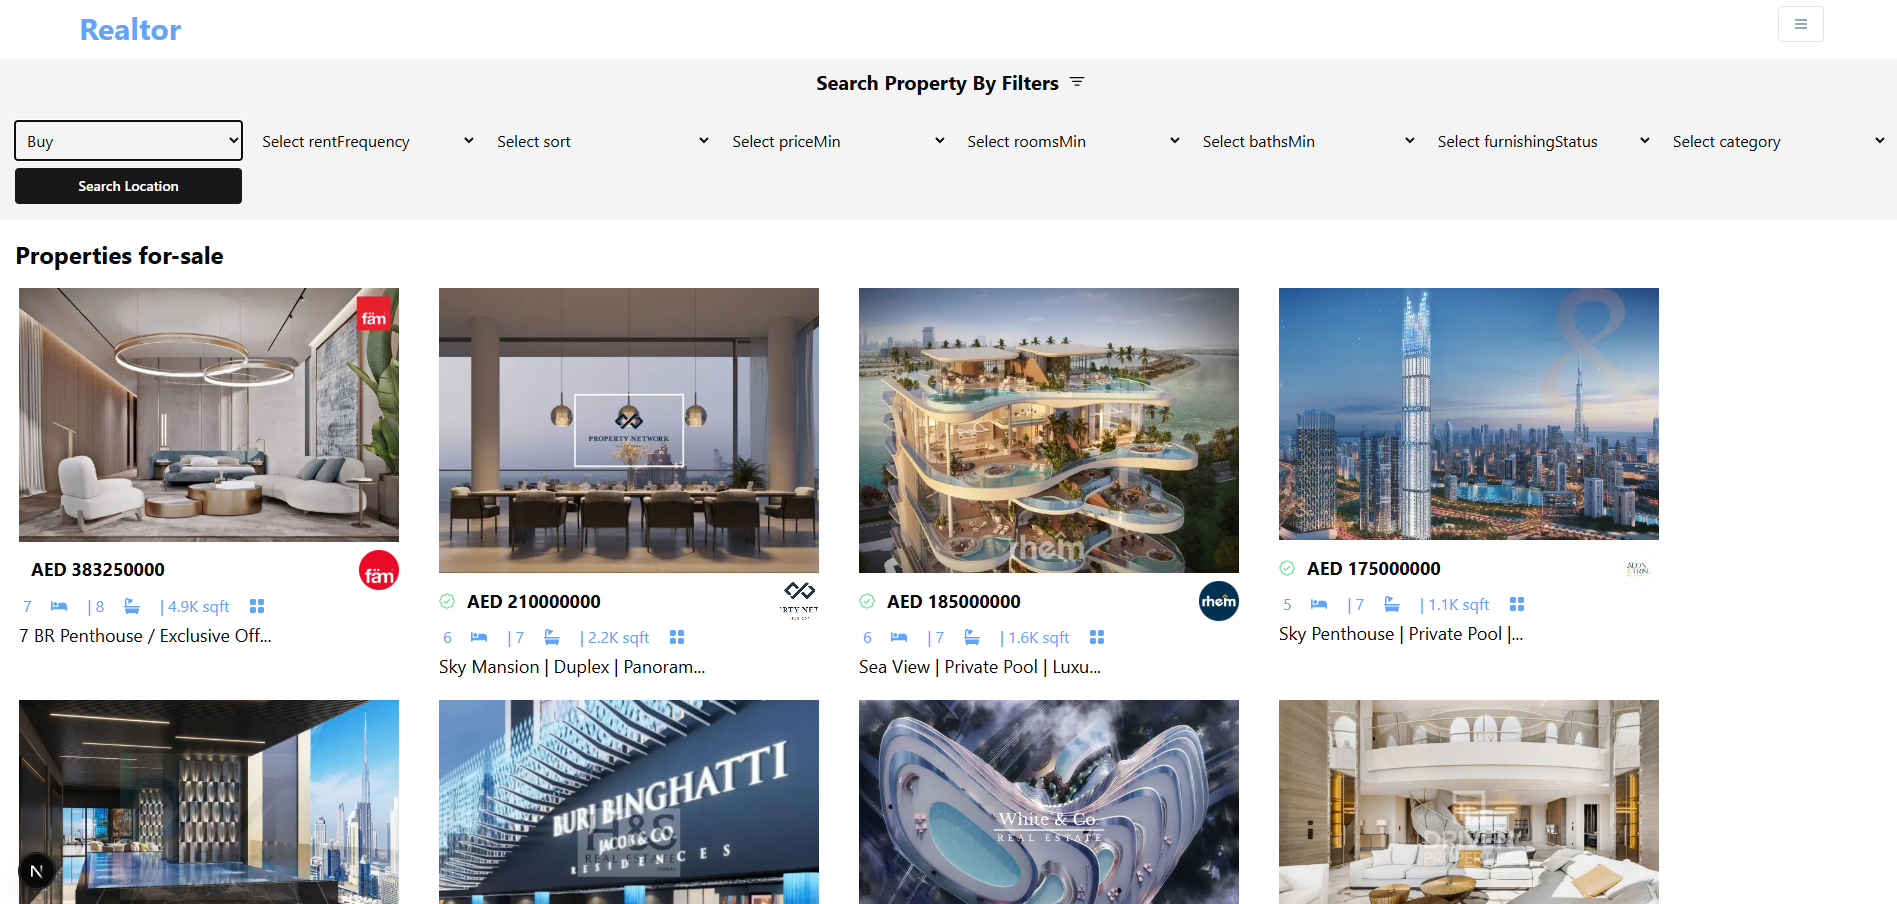
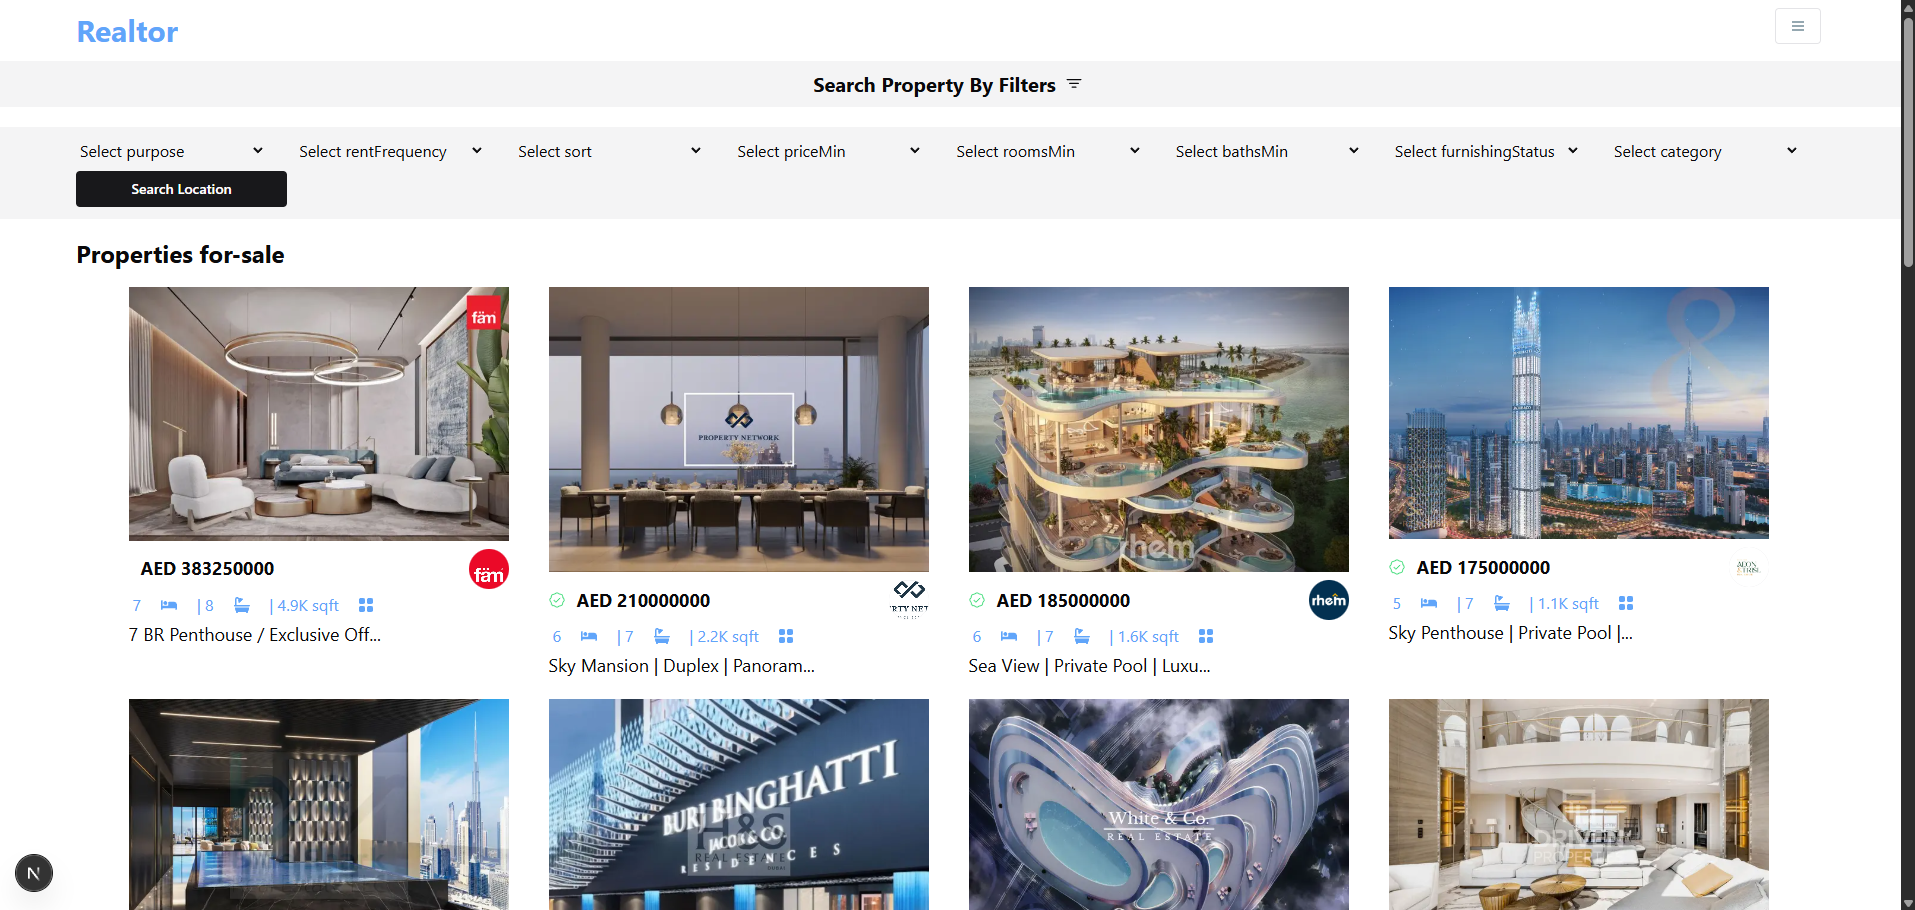
added

diff --git a/src/app/components/SearchFilters.tsx b/src/app/components/SearchFilters.tsx
@@ -125,7 +125,7 @@ const SearchFilters: React.FC = () => {
   };
 
   return (
-    <Box bg="gray.100" p="4">
+    <Box bg="gray.100" p="3" mt="5" pl="20" pr="20">
       <Grid templateColumns="repeat(8, 1fr)" gap={2} alignItems="center">
         {filterData.map((filter) => (
           <GridItem key={filter.queryName}>
@@ -133,7 +133,7 @@ const SearchFilters: React.FC = () => {
               onChange={(e) =>
                 searchProperties({ [filter.queryName]: e.target.value })
               }
-              style={{ width: "100%", padding: "0.5rem" }}
+              style={{ width: "90%", padding: "20" }}
             >
               <option value="">{`Select ${filter.queryName}`}</option>
               {filter.items.map((item) => (

diff --git a/src/app/search/page.tsx b/src/app/search/page.tsx
@@ -56,7 +56,7 @@ const Search = () => {
   ]);
 
   return (
-    <Box>
+    <Box justifyContent="center">
       <Flex
         cursor="pointer"
         bg="gray.100"
@@ -75,10 +75,10 @@ const Search = () => {
         </Icon>
       </Flex>
       {searchFilters && <SearchFilters />}
-      <Text fontSize="2xl" p="4" fontWeight="bold">
+      <Text fontSize="2xl" p="4" pl="20" fontWeight="bold">
         Properties {purpose}
       </Text>
-      <Flex flexWrap="wrap">
+      <Flex flexWrap="wrap" justifyContent="center">
         {properties.map((property) => (
           <Property property={property} key={property.id} />
         ))}
